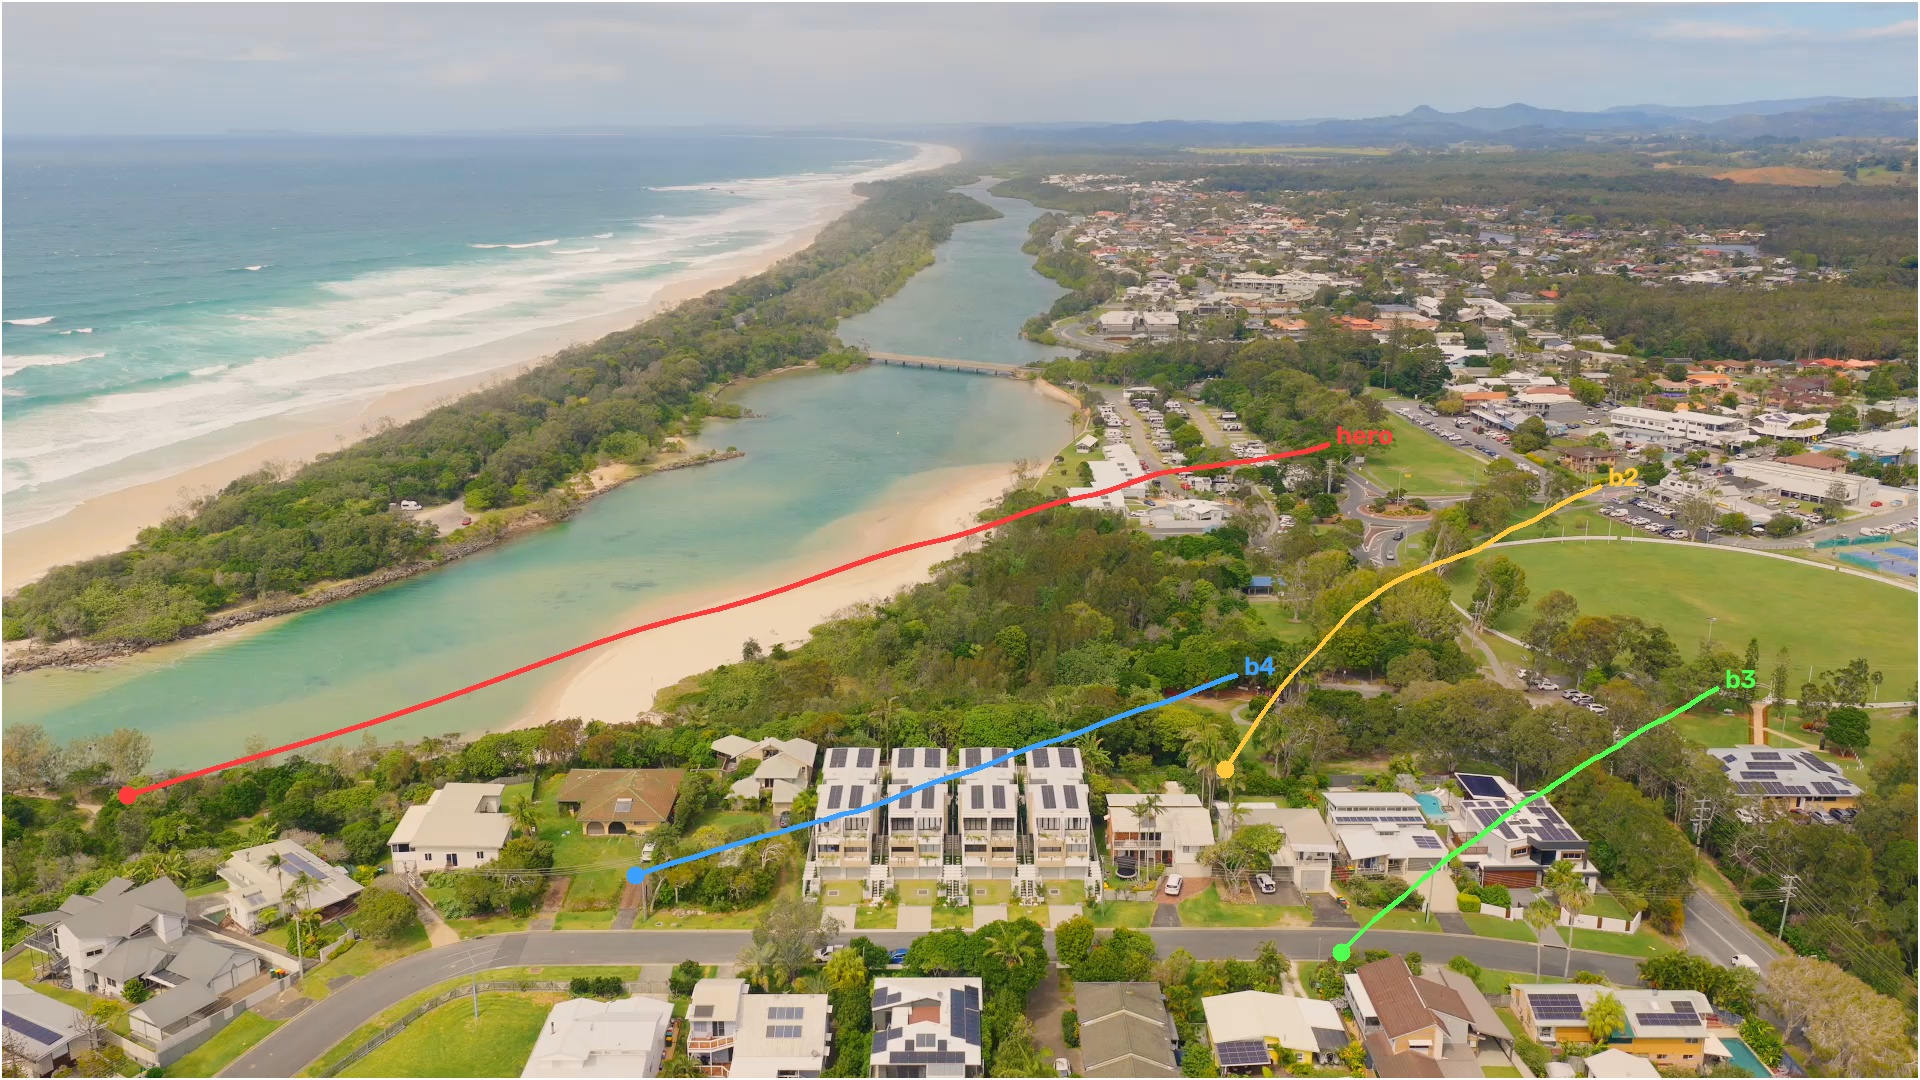
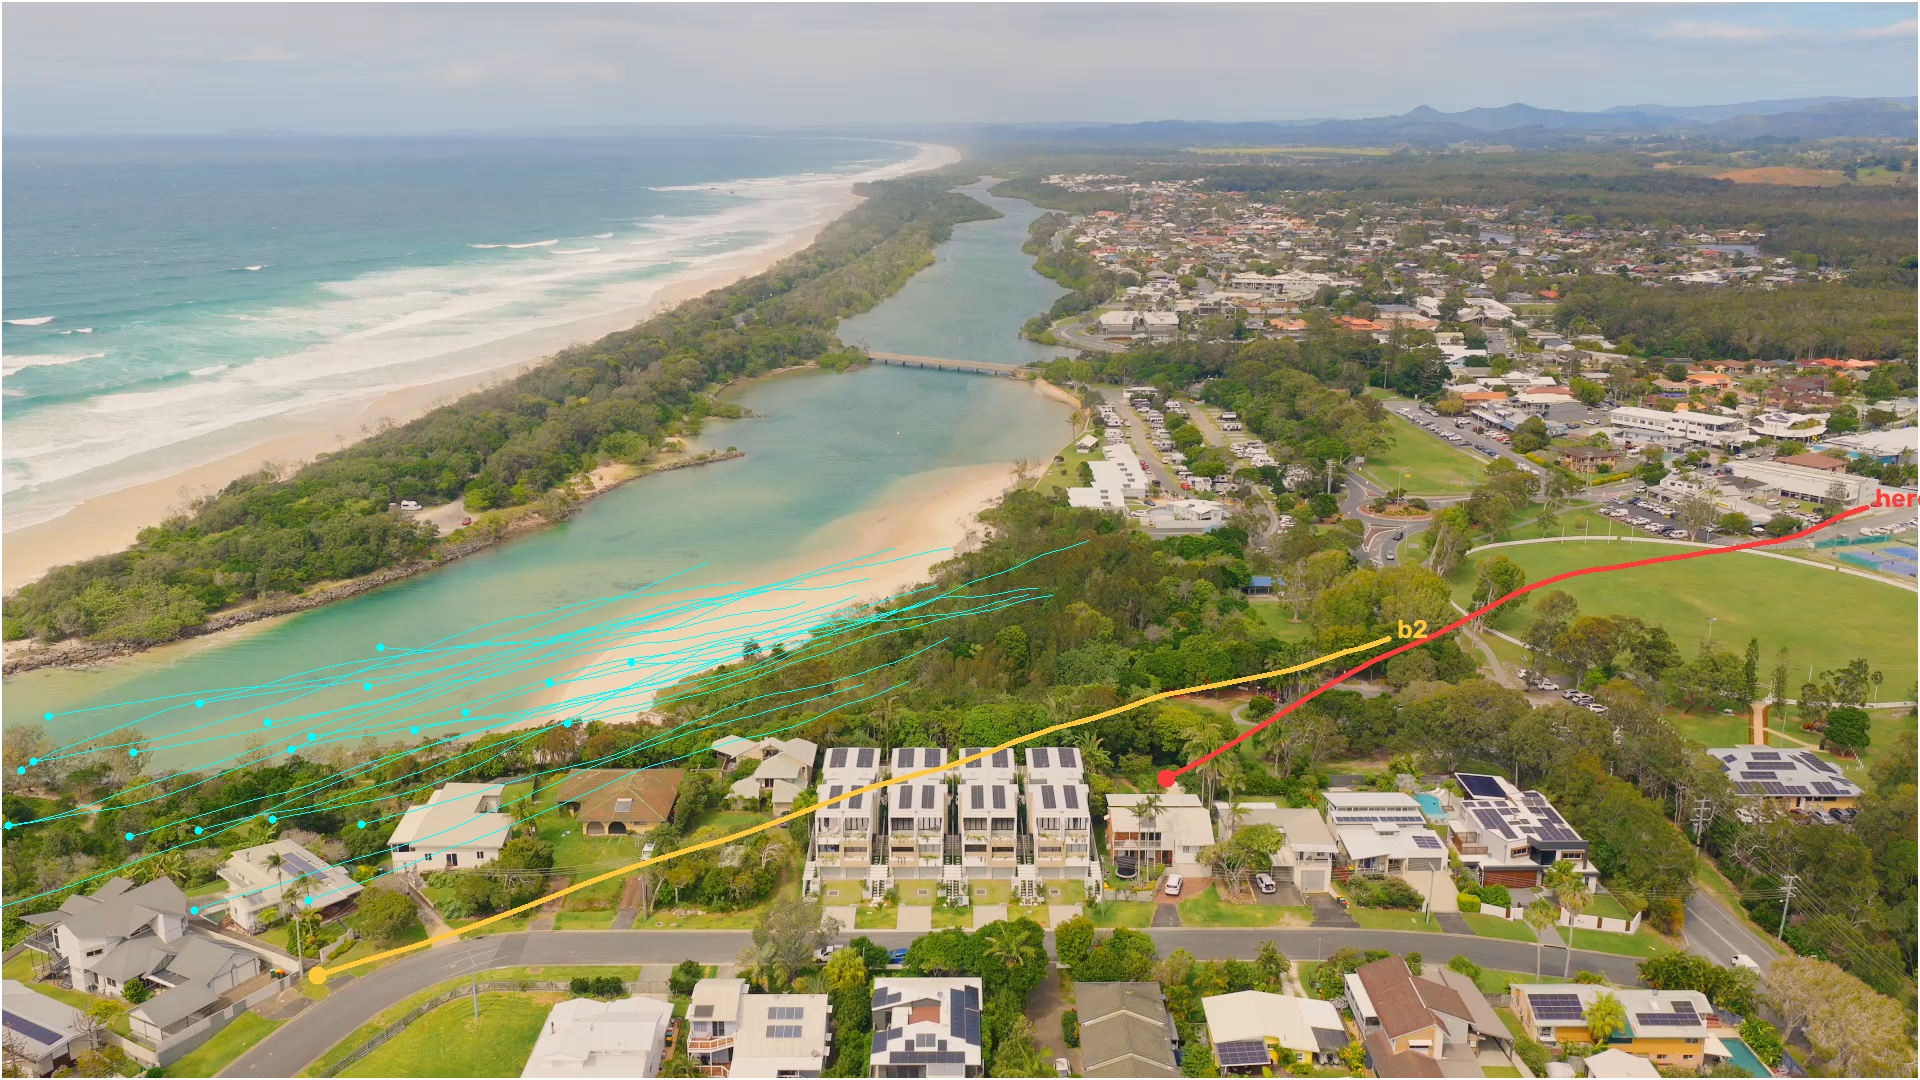
plate-vfx: flock simulation + layout --flock

diff --git a/projects/plate-vfx/lib/flight.py b/projects/plate-vfx/lib/flight.py
@@ -116,3 +116,116 @@ def project(p, M, f_px, w, h):
     if z <= 0.05:
         return None
     return (f_px * c[0] / z + w / 2, h / 2 - f_px * c[1] / z, z)
+
+
+# ---------------------------------------------------------------- flocks
+def _wing_pose(u, g):
+    fl = dict(elev=elev(u), arm_sweep=14 * w_up(u), hand_dih=0.55 * (elev(u - 0.07) - elev(u)) - 4,
+              hand_sweep=40 * w_up(u), twist=-9 * w_dn(u))
+    return {k: (1 - g) * fl[k] + g * GLIDE[k] for k in fl}
+
+
+def _smooth_noise(rng, n_terms=3, f_lo=0.15, f_hi=0.6):
+    terms = [(rng.uniform(f_lo, f_hi), rng.uniform(0, 2 * math.pi), rng.uniform(0.5, 1.0)) for _ in range(n_terms)]
+    norm = sum(a for _, _, a in terms)
+    return lambda t: sum(a * math.sin(2 * math.pi * f * t + p) for f, p, a in terms) / norm
+
+
+def simulate_flock(flock, M1, f_px, fps, n_frames):
+    """Loose flock around a leader path. Returns one key list per member (same format as simulate()).
+
+    flock: {"leader": <bird dict>, "count": N, "seed": s, "spread": [lateral, along, vertical] m (half-sizes),
+            "drift": m, "sep": m, "follow_glide": 0..1}
+    Members hold a drifting slot in the leader's heading frame, trail along the leader's path with their
+    own lag, get pushed apart (separation), and derive heading/bank/pitch from their own velocity so the
+    flock ripples instead of moving as one rigid block. Each bird has its own wingbeat rate and phase.
+    """
+    import random
+    rng = random.Random(flock.get("seed", 1))
+    lead = flock["leader"]
+    lw, la, lv = flock.get("spread", [7.0, 9.0, 2.0])
+    drift, sep = flock.get("drift", 1.2), flock.get("sep", 1.6 * lead["span"])
+    count = flock["count"]
+    # simulate the leader over a padded window so lagged members have path to follow
+    pad_s = 0.6
+    pad_f = int(math.ceil(pad_s * fps))
+    lead_keys = simulate(lead, M1, f_px, fps, n_frames + 2 * pad_f)
+    # re-time so leader key frame (1 + pad_f) == shot frame 1 (leader starts earlier, off its start point)
+    LP = np.array([k["pos"] for k in lead_keys])
+    LH = np.array([k["euler"][2] for k in lead_keys])
+    LT = (np.array([k["frame"] for k in lead_keys]) - 1) / fps - pad_s
+    shift = LP[int(round(pad_f / KEY_STEP))] - LP[0]
+    LP = LP - shift  # leader passes the routed start point at shot frame 1
+    lead_glides = lead.get("glides", [])
+
+    def at(t, arr):
+        return np.array([np.interp(t, LT, arr[:, k]) for k in range(arr.shape[1])]) if arr.ndim == 2 else np.interp(t, LT, arr)
+
+    members = []
+    for i in range(count):
+        # slot inside an ellipsoid, denser toward the middle
+        while True:
+            x, y, z = rng.uniform(-1, 1), rng.uniform(-1, 1), rng.uniform(-1, 1)
+            if x * x + y * y + z * z <= 1:
+                break
+        slot = np.array([x * lw, y * la, z * lv])
+        if i == 0:
+            slot = np.zeros(3)
+        nz = [_smooth_noise(rng) for _ in range(3)]
+        jit = rng.uniform(-0.15, 0.15)
+        glides = [[a + jit, b + jit + rng.uniform(-0.1, 0.1)] for a, b in lead_glides] if rng.random() < flock.get("follow_glide", 0.75) else []
+        if not lead_glides and rng.random() < 0.25:  # a few birds glide on their own
+            a = rng.uniform(0.1, (n_frames - 1) / fps * 0.7)
+            glides = [[a, a + rng.uniform(0.3, 0.7)]]
+        members.append(dict(slot=slot, nz=nz, lag=rng.uniform(-0.25, 0.25), hz=lead["hz"] * rng.uniform(0.88, 1.12),
+                            phase=rng.random(), glides=glides, span=lead["span"] * rng.uniform(0.92, 1.06),
+                            bank0=lead["bank"] * rng.uniform(0.6, 1.3)))
+
+    times = np.array([(1 + j * KEY_STEP - 1) / fps for j in range(int((n_frames - 1) / KEY_STEP) + 1)])
+    pos = np.zeros((count, len(times), 3))
+    for i, m in enumerate(members):
+        for j, t in enumerate(times):
+            tl = t + m["lag"]
+            h = at(tl, LH) + math.pi / 2  # leader travel direction angle
+            fwd = np.array([math.cos(h), math.sin(h), 0.0])
+            side = np.array([math.sin(h), -math.cos(h), 0.0])
+            o = m["slot"] + drift * np.array([m["nz"][0](t), m["nz"][1](t), 0.4 * m["nz"][2](t)])
+            pos[i, j] = at(tl, LP) + side * o[0] + fwd * o[1] + np.array([0, 0, o[2]])
+    # separation: push overlapping pairs apart, a few relaxation passes per key
+    for j in range(len(times)):
+        P = pos[:, j]
+        for _ in range(6):
+            d = P[:, None, :] - P[None, :, :]
+            dist = np.linalg.norm(d, axis=2) + np.eye(count) * 1e9
+            push = np.clip(sep - dist, 0, None) / sep
+            P += 0.25 * sep * np.einsum("ij,ijk->ik", push, d / dist[..., None])
+        pos[:, j] = P
+    # light temporal smoothing so separation never jitters
+    k = np.array([1, 2, 3, 2, 1], float); k /= k.sum()
+    for i in range(count):
+        for c in range(3):
+            pos[i, :, c] = np.convolve(np.pad(pos[i, :, c], 2, mode="edge"), k, mode="valid")
+
+    out = []
+    dt = KEY_STEP / fps
+    for i, m in enumerate(members):
+        vel = np.gradient(pos[i], dt, axis=0)
+        head = np.unwrap(np.arctan2(vel[:, 1], vel[:, 0]))
+        omega = np.gradient(head, dt)
+        vh = np.linalg.norm(vel[:, :2], axis=1)
+        keys, phase, t_prev = [], m["phase"], 0.0
+        for j, t in enumerate(times):
+            g = glide_w(t, m["glides"])
+            phase += m["hz"] * (1 - g) * (t - t_prev)
+            t_prev = t
+            u = phase % 1.0
+            roll = m["bank0"] + math.degrees(math.atan(-vh[j] * omega[j] / G))  # coordinated: right turn -> right wing low
+            roll = max(-35.0, min(35.0, roll))
+            pitch = -4 + math.degrees(math.atan2(vel[j, 2], max(vh[j], 1e-3))) * 0.6 + 2.5 * (1 - g) * w_dn(u) - 1.5 * g
+            lowness = (TOP - elev(u - 0.22)) / (TOP - BOT)
+            lift = (1 - g) * 0.05 * m["span"] * (lowness - 0.5)
+            keys.append(dict(frame=1 + j * KEY_STEP, pos=(pos[i, j] + np.array([0, 0, lift])).tolist(),
+                             euler=[math.radians(pitch), math.radians(roll), float(head[j] - math.pi / 2)],
+                             wings=_wing_pose(u, g), span=m["span"]))
+        out.append(keys)
+    return out

diff --git a/projects/plate-vfx/lib/layout.py b/projects/plate-vfx/lib/layout.py
@@ -106,6 +106,56 @@ def auto(cam, count=4, aspect="16:9", seed=1, direction=1, min_px=16, tries=2500
     return {"aspect": aspect, "seed": seed, "safe_rect": rect, "birds": birds}
 
 
+def flock_tracks(fl, cam, f_px, fps, w, h):
+    n = len(cam["frames"])
+    out = []
+    for keys in flight.simulate_flock(fl, cam["frames"][0], f_px, fps, n):
+        pts = []
+        for k in keys:
+            if abs(k["frame"] - round(k["frame"])) < 1e-6:
+                pts.append(flight.project(k["pos"], cam["frames"][int(round(k["frame"])) - 1], f_px, w, h))
+        out.append(pts)
+    return out
+
+
+def auto_flock(cam, count=24, aspect="16:9", seed=1, direction=1, depth=(26.0, 48.0), tries=1200, log=print):
+    """Route one flock: search the leader path on the flock centre, then report member stats."""
+    w, h = cam["width"], cam["height"]
+    fps = cam["fps"][0] / cam["fps"][1]
+    f_px = cam["lens_mm"] / 36 * w
+    rect = safe_rect(w, h, aspect)
+    rng = random.Random(seed * 7919)
+    best = None
+    for _ in range(tries):
+        d = math.exp(rng.uniform(math.log(depth[0]), math.log(depth[1])))
+        heading, bank = rng.uniform(25, 50), rng.uniform(5, 10)
+        if direction < 0:
+            heading, bank = 180 - heading, -bank
+        lead = dict(tag="flock", depth=round(d, 2), sx=round(rng.uniform(-1.4, -0.2) * w / 2 * direction),
+                    sy=round(rng.uniform(-0.6, 0.5) * h / 2), speed=round(rng.uniform(9.5, 11.0), 2),
+                    hz=round(rng.uniform(2.8, 3.2), 2), phase=0.0, heading=round(heading, 1), bank=round(bank, 1),
+                    span=0.95, glides=[])
+        if rng.random() < 0.5:
+            a = rng.uniform(0.3, 1.1)
+            lead["glides"] = [[round(a, 2), round(a + rng.uniform(0.3, 0.6), 2)]]
+        pts = track_bird(lead, cam, f_px, fps, w, h)
+        sc_, info = score(lead, pts, rect, f_px, [], 10)
+        if best is None or sc_ > best[0]:
+            best = (sc_, lead, info)
+    lead = best[1]
+    spread = [round(0.22 * lead["depth"], 1), round(0.28 * lead["depth"], 1), round(0.06 * lead["depth"], 1)]
+    fl = dict(leader=lead, count=count, seed=seed, spread=spread, drift=1.2, sep=1.6, follow_glide=0.75)
+    tr = flock_tracks(fl, cam, f_px, fps, w, h)
+    x0, y0, x1, y1 = rect
+    vis = np.mean([np.mean([p is not None and x0 < p[0] < x1 and y0 < p[1] < y1 for p in t]) for t in tr])
+    sizes = [lead["span"] * f_px / p[2] for t in tr for p in t if p is not None]
+    mind = min(p[2] for t in tr for p in t if p is not None)
+    fl["score"] = dict(member_visible=round(float(vis), 3), min_px=round(min(sizes)), max_px=round(max(sizes)), min_depth_m=round(mind, 1))
+    log(f"  flock of {count}: centre depth {lead['depth']}m, members visible {vis:.0%} in {aspect} safe area, "
+        f"{min(sizes):.0f}-{max(sizes):.0f}px span, nearest bird {mind:.1f}m")
+    return fl
+
+
 def preview(layout, cam, plate_img, out_path):
     """Draw each bird's screen path + safe area over the first plate frame."""
     import cv2
@@ -123,4 +173,11 @@ def preview(layout, cam, plate_img, out_path):
         if pts:
             cv2.circle(img, (int(pts[0][0]), int(pts[0][1])), 9, cols[j % len(cols)], -1)
             cv2.putText(img, b["tag"], (int(pts[-1][0]) + 8, int(pts[-1][1])), cv2.FONT_HERSHEY_SIMPLEX, 0.9, cols[j % len(cols)], 2)
+    for fl in layout.get("flocks", []):
+        for pts in flock_tracks(fl, cam, f_px, fps, w, h):
+            pts = [p for p in pts if p is not None]
+            for a, c in zip(pts[:-1], pts[1:]):
+                cv2.line(img, (int(a[0]), int(a[1])), (int(c[0]), int(c[1])), (255, 255, 0), 1)
+            if pts:
+                cv2.circle(img, (int(pts[0][0]), int(pts[0][1])), 4, (255, 255, 0), -1)
     cv2.imwrite(out_path, img)

diff --git a/projects/plate-vfx/plate_vfx.py b/projects/plate-vfx/plate_vfx.py
@@ -4,7 +4,7 @@
   python3 plate_vfx.py init   <clip> --job <dir> [--aspect 16:9|9:16|4:5|1:1]
   python3 plate_vfx.py track  <dir> [--model auto|line|free]
   python3 plate_vfx.py match  <dir>
-  python3 plate_vfx.py layout <dir> [--count 4] [--seed 1] [--direction 1|-1]
+  python3 plate_vfx.py layout <dir> [--count 4] [--flock 24] [--seed 1] [--direction 1|-1]
   python3 plate_vfx.py pilot  <dir> [--frame N] [--tier draft]
   python3 plate_vfx.py render <dir> [--tier draft|standard|hero]
   python3 plate_vfx.py prep   <clip> --job <dir> ...   # init+track+match+layout+pilot, then stop for approval
@@ -87,10 +87,12 @@ def cmd_layout(a):
     job = os.path.abspath(a.job)
     shot = jload(os.path.join(job, "shot.json"))
     cam = jload(os.path.join(job, "camera.json"))
-    lay = layout.auto(cam, count=a.count, aspect=shot["aspect"], seed=a.seed, direction=a.direction)
+    lay = layout.auto(cam, count=a.count, aspect=shot["aspect"], seed=a.seed, direction=a.direction) if a.count else \
+        {"aspect": shot["aspect"], "seed": a.seed, "safe_rect": layout.safe_rect(cam["width"], cam["height"], shot["aspect"]), "birds": []}
+    lay["flocks"] = [layout.auto_flock(cam, count=a.flock, aspect=shot["aspect"], seed=a.seed, direction=a.direction)] if a.flock else []
     jsave(os.path.join(job, "layout.json"), lay)
     layout.preview(lay, cam, plate_paths(job)[shot["range"][0] - 1], os.path.join(job, "layout_preview.jpg"))
-    print(f"layout: {len(lay['birds'])} birds -> layout.json, layout_preview.jpg")
+    print(f"layout: {len(lay['birds'])} birds + {sum(f['count'] for f in lay['flocks'])} in flocks -> layout.json, layout_preview.jpg")
 
 
 def blender_build(job, tier, render=False, frame=None):
@@ -195,10 +197,12 @@ def main():
         p.add_argument("--aspect", default="16:9")
         p.add_argument("--model", default="auto"); p.add_argument("--count", type=int, default=4)
         p.add_argument("--seed", type=int, default=1); p.add_argument("--direction", type=int, default=1)
+        p.add_argument("--flock", type=int, default=0)
     p = sp.add_parser("track"); p.add_argument("job"); p.add_argument("--model", default="auto")
     p = sp.add_parser("match"); p.add_argument("job")
     p = sp.add_parser("layout"); p.add_argument("job"); p.add_argument("--count", type=int, default=4)
     p.add_argument("--seed", type=int, default=1); p.add_argument("--direction", type=int, default=1)
+    p.add_argument("--flock", type=int, default=0, help="add a flock of N birds")
     p = sp.add_parser("pilot"); p.add_argument("job"); p.add_argument("--frame", type=int); p.add_argument("--tier", default="draft")
     p = sp.add_parser("render"); p.add_argument("job"); p.add_argument("--tier")
     a = ap.parse_args()

diff --git a/projects/plate-vfx/blender/build_birds.py b/projects/plate-vfx/blender/build_birds.py
@@ -21,7 +21,8 @@ shot = json.load(open(SHOT))
 TIER = argv[argv.index("--tier") + 1] if "--tier" in argv else shot.get("tier", "standard")
 cam_data = json.load(open(os.path.join(JOB, "camera.json")))
 plate = json.load(open(os.path.join(JOB, "plate.json")))
-birds = json.load(open(os.path.join(JOB, "layout.json")))["birds"]
+_lay = json.load(open(os.path.join(JOB, "layout.json")))
+birds, flocks = _lay["birds"], _lay.get("flocks", [])
 N = len(cam_data["frames"])
 FPS = cam_data["fps"][0] / cam_data["fps"][1]
 W, H = cam_data["width"], cam_data["height"]
@@ -302,6 +303,11 @@ for b in birds:
     gull = (AssetGull if MODEL == "asset" else ProceduralGull)(b["tag"], b["span"])
     for k in flight.simulate(b, M1, F_PX, FPS, N):
         gull.key(k)
+for fi, fl in enumerate(flocks):
+    for mi, keys in enumerate(flight.simulate_flock(fl, M1, F_PX, FPS, N)):
+        gull = (AssetGull if MODEL == "asset" else ProceduralGull)(f"f{fi}_{mi:02d}", keys[0]["span"])
+        for k in keys:
+            gull.key(k)
 
 out_dir = os.path.join(JOB, "render", TIER)
 os.makedirs(out_dir, exist_ok=True)

diff --git a/projects/plate-vfx/README.md b/projects/plate-vfx/README.md
@@ -18,6 +18,7 @@ python3 plate_vfx.py render <dir> --tier draft|standard|hero
 | track | `lib/track_fit.py` | Forward/backward-checked LK tracks feed a flat-ground drone-camera fit. There are two models: `line` (straight travel plus gimbal) and `free` (6-DOF per frame, smoothed). `auto` picks one. The gate is a mean error under 0.5 px. Output: `camera.json`. |
 | match | `lib/plate.py` | Measures sky colour (linear), warmth (R/B) and grain sigma in the flattest blocks. Output: `plate.json`. |
 | layout | `lib/layout.py` | Random search over flight parameters. Each candidate is simulated through the camera and scored on time inside the safe area, edge entry, readable size and spacing between birds. Outputs: `layout.json` and `layout_preview.jpg`. |
+| flock | `lib/flight.py` `simulate_flock` | Leader path (auto-routed) + N members: ellipsoid slots (0.22/0.28/0.06 × depth) with smooth-noise drift, per-member lag ±0.25 s along the leader path, separation relaxation (≥1.6 m), temporal smoothing, heading/bank/pitch from each member's own velocity (coordinated turns), own wingbeat, 75 % share the leader's glide with ±0.15 s jitter. 24 birds sim in 0.04 s; standard render of 26 birds ≈ 33 s. |
 | flight | `lib/flight.py` | The shared flight simulation: asymmetric wingbeat, wrist fold, body lift, glides, coordinated banked turns. Keys every half frame. |
 | build/render | `blender/build_birds.py` | Builds the tiered scene (camera, plate background, plate-matched light, gulls) and renders an RGBA pass to `render/<tier>/`. |
 | comp | `lib/plate.py` | `plate*(1-a) + (cg+grain)*a`, bit-exact outside the alpha, then `verify()`. Exports mp4, ProRes 422 HQ and ProRes 4444 alpha. |
@@ -39,4 +40,4 @@ python3 plate_vfx.py render <dir> --tier draft|standard|hero
 ## Limits and next upgrades
 - Tracks must survive the whole range, so long or fast shots need keyframe chaining (not built yet).
 - Flat-ground prior: fine for aerials. Ground-level shots with big parallax should use Blender's solver (`extra-salt-kollosche-birds/scripts/01_track.py` shows how).
-- Next: a boids flock (20+ birds), feather-card wing edges for hero, sun direction read from the plate, more subjects (drones, boats).
+- Next: feather-card wing edges for hero, sun direction read from the plate, more subjects (drones, boats).

diff --git a/wiki/concepts/plate-vfx.md b/wiki/concepts/plate-vfx.md
@@ -30,7 +30,10 @@ Built 2026-10-21 from the [[extra-salt-kollosche-birds]] job. Hunter's brief was
 - **Plate match.** Sky hue drives the fill light and warmth drives the sun colour. Grain is measured in flat blocks and added only inside the CG alpha.
 - **Cut detection** runs at init, which fixes the frame-46 trap.
 
+## Flock (added 2026-10-21)
+`layout --flock N` routes a leader, then N members ride drifting slots in a loose elongated flock: own lag along the path, separation ≥1.6 m, banking/pitch from their own velocity, individual wingbeats, mostly-shared glides. Benchmark: 2 hero gulls + 24-bird flock over the Kollosche river mouth, standard tier 33 s, plate untouched.
+
 ## Next
-A boids flock, feather cards on the hero wing edges, sun direction read from plate shadows, keyframe-chained tracking for long shots, and new subjects (drones, boats, people).
+Feather cards on the hero wing edges, sun direction read from plate shadows, keyframe-chained tracking for long shots, and new subjects (drones, boats, people).
 
 Related: [[blender-blockout-pipeline]], [[higgsfield-pipelines]] (the drone-wide no-AI rule).

diff --git a/wiki/log.md b/wiki/log.md
@@ -1362,3 +1362,6 @@ Answered Prompt 1 of [[fcp-plugin-research]] by web research (five parallel pass
 
 ## [2026-10-21] ingest | plate-vfx skill + pipeline v1
 Turned the Kollosche gulls job into a reusable pipeline (projects/plate-vfx) and skill (plate-vfx). It has cut detection, a multi-start constrained drone-camera fit (0.15 px on the benchmark), plate matching (sky, warmth, grain), auto-routed flight paths for 16:9/9:16, and draft/standard/hero tiers. The standard and hero tiers use a rigged CC-BY Sketchfab herring gull. Hunter updated the Blender MCP addon and enabled Sketchfab. New page [[plate-vfx]]. No spend.
+
+## [2026-10-21] migrate | plate-vfx: flock
+Added simulate_flock: a leader path plus members in drifting slots, with lag, separation, velocity-derived banking, and individual wingbeats and glides. `layout --flock N`. Benchmark: 2 heroes + 24-bird flock, standard tier 33 s, 0 px plate change. No spend.
